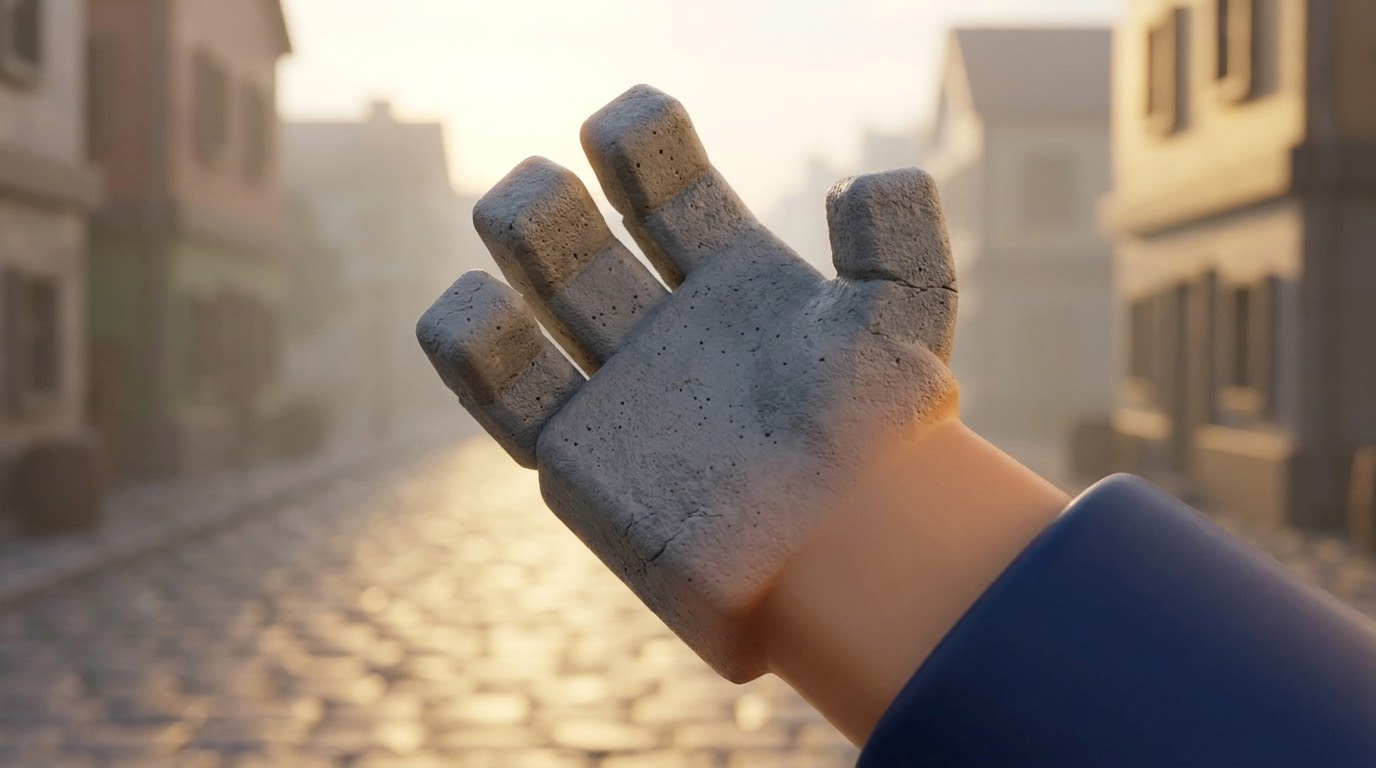
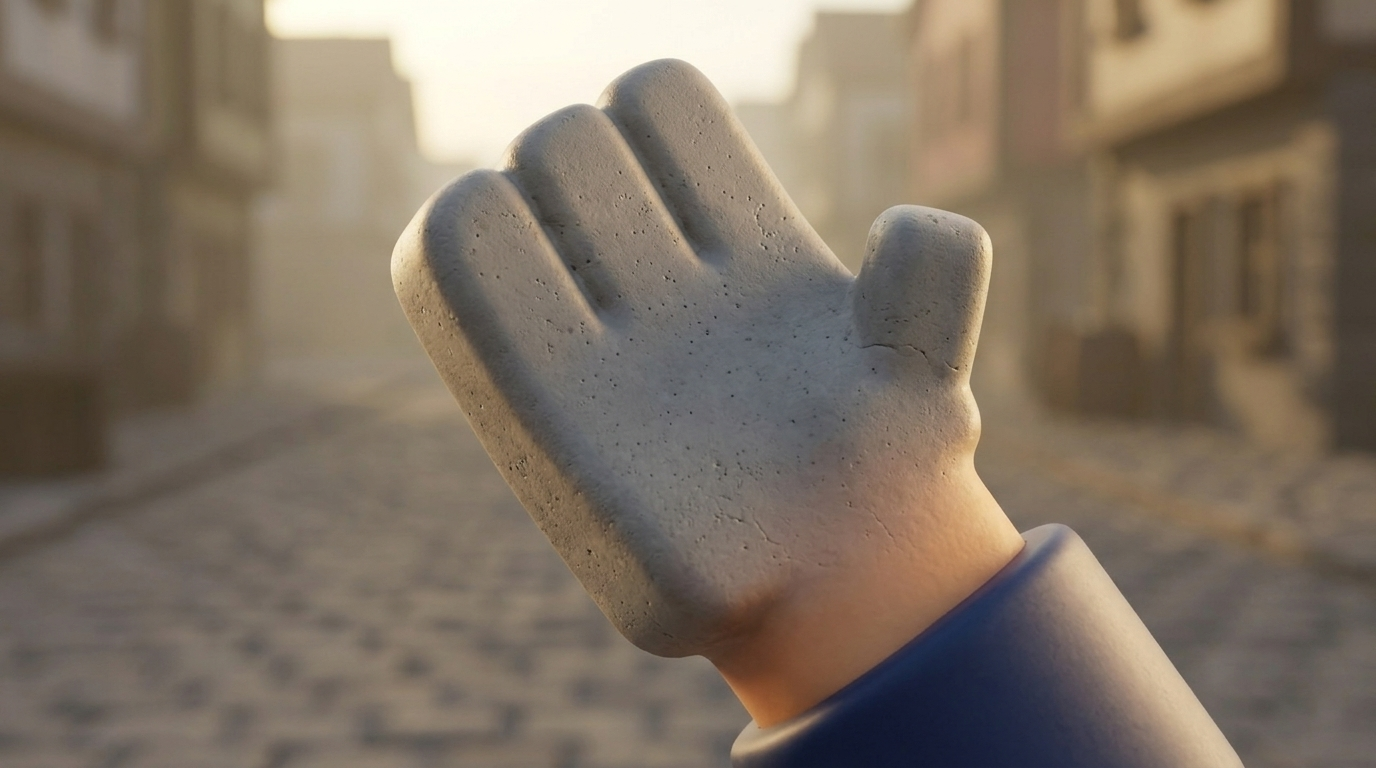
ep01: s01_02 redone with mitten hands; hand and eye rules in bible

diff --git a/production/in-this-town/bible.md b/production/in-this-town/bible.md
@@ -5,7 +5,11 @@
 **Style (put at the start of EVERY image prompt):**
 > Stylized 3D render in a blocky toy-figure style: characters have square block heads with simple painted faces (dot eyes, small expressive mouth, bold eyebrows), rectangular torsos, blocky arms and legs, smooth matte plastic material, like a polished low-poly game animation. Cinematic lighting, soft shadows, gentle depth of field, rich but natural colour. Widescreen 16:9 frame. No text, no letters, no logos, no watermark.
 
+**HANDS (put in EVERY prompt with a character):**
+> HANDS: small mitten-style block hands — one rounded block for the palm and fingers together, with only shallow grooves between the fingers, plus a separate small thumb. No separate long fingers, no claws, no C-shaped hands.
+
 **Rules for images:**
+- Faces are always simple painted DOT eyes, never big white cartoon eyes.
 - Our own blocky style. No Roblox logo or UI.
 - **No text in images:** signs and cards stay blank. All text is added in the edit, BIG.
 - Always attach the character sheet when a character appears.
